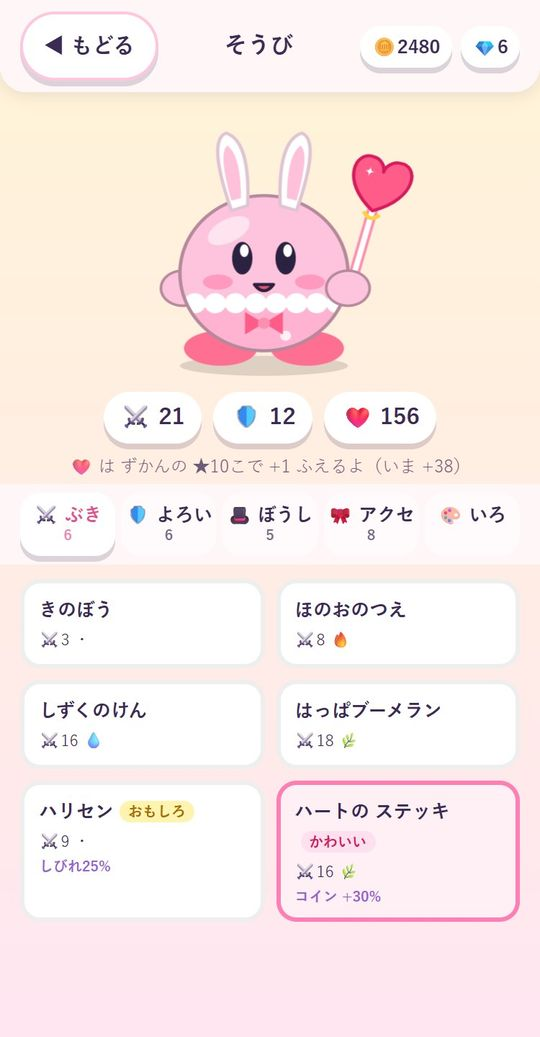
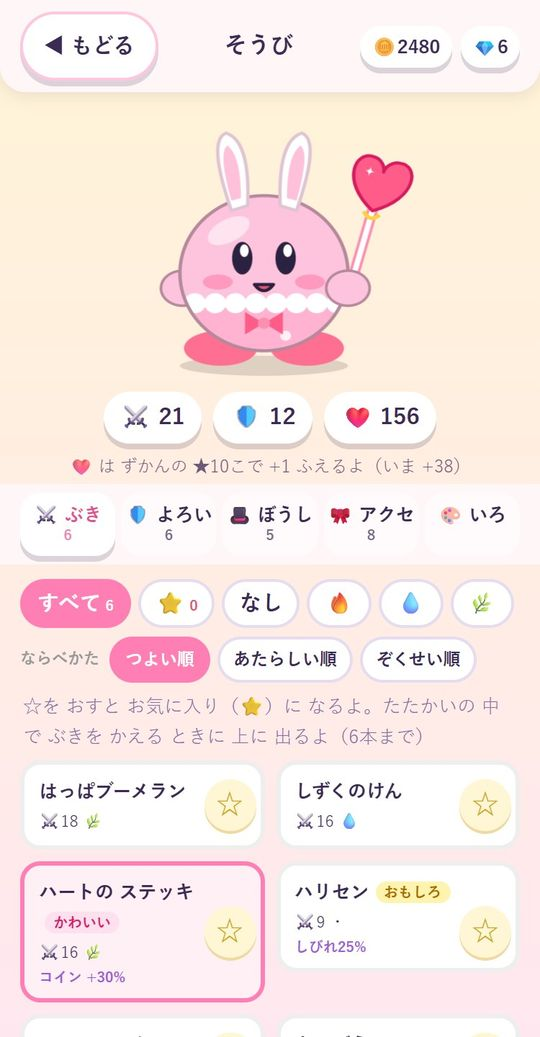
ぶきを選びやすく（v60）
たたかいの中のぶき交換:
- 「いちばん きく ぶきに する」ボタン（今の敵へのダメージの目安で判定）
- おすすめ3本・お気に入り（⭐）を上に、ほかは「ほかの ぶきを 見る」で開く
- ほかのぶきは ぞくせいで絞り込み（今の敵に効くぞくせいに◎）、きく順/つよい順/あたらしい順
- 各ぶきに「めやす ⚔」（ダメージの目安）を表示
そうび画面のぶき:
- ☆でお気に入り登録（6本まで）、ぞくせい・⭐で絞り込み、つよい順/あたらしい順/ぞくせい順
- 説明書を更新

Changed region(s): [[0.0296, 0.5554, 0.9778, 1.0]]

diff --git a/wpick.js b/wpick.js
@@ -1,0 +1,100 @@
+// ===== ぶきを えらびやすく する =====
+// たたかいの 中：「いちばん きく ぶきに する」ボタン・おすすめ 3本・お気に入り（⭐）・ほかの ぶき（しぼりこみ・ならべかえ）
+// そうび画面：⭐の 登録・ぞくせいで しぼりこみ・ならべかえ
+"use strict";
+
+const WFAV_MAX = 6; // お気に入りに できる 数
+const wFavs = () => (S.wfav = (S.wfav || []).filter((id) => S.owned.includes(id)));
+const isFav = (id) => wFavs().includes(id);
+const ownedWeapons = () => ITEMS.filter((x) => x.type === "weapon" && S.owned.includes(x.id));
+// 手に いれた じゅん（S.owned の ならび）
+const ownIdx = (id) => S.owned.indexOf(id);
+
+// いまの てきへの ダメージの めやす（こうげきの 計算と おなじ 考え方。かいしん・ついげき などは 平均で）
+function wScore(w) {
+  const sp = w.sp || {}, e = B.e, ch = B.st && B.st.ch;
+  let d = (5 + w.atk) * wEff(w) * (sp.hit || 1) * (1 + (sp.crit || 0));
+  if (sp.boss && e.boss) d *= sp.boss;
+  if (sp.world && ch && !ch.maou && (sp.world === "all" || sp.world === ch.w)) d *= 1.5;
+  if (sp.tok && e.el === sp.tok) d *= 1.5;
+  if (sp.maou && ch && ch.maou) d *= sp.maou;
+  d *= wBar(w);
+  if (sp.extra) d *= 1 + sp.extra * 0.5;
+  if (sp.multi) d *= 1 + sp.multi;
+  return Math.round(d);
+}
+
+// ---------- たたかいの 中 ----------
+let WP = { more: false, el: "all", sort: "eff" };
+function swapWeapon() {
+  if (B.busy) return;
+  snd("tap");
+  WP = { more: false, el: "all", sort: "eff" };
+  const e = B.e, ws = ownedWeapons().map((w) => ({ w, s: wScore(w) })).sort((a, b) => b.s - a.s || b.w.atk - a.w.atk);
+  const best = ws[0], cur = ws.find((x) => x.w.id === S.eq.weapon);
+  const top = ws.slice(0, 3), topIds = top.map((x) => x.w.id);
+  const favs = ws.filter((x) => isFav(x.w.id) && !topIds.includes(x.w.id));
+  const bestBtn = best && cur && best.s > cur.s
+    ? `<button class="big-btn primary wbest" onclick="setWeapon('${best.w.id}')">⚡ いちばん きく ぶきに する<small>${ELEMENTS[best.w.el].icon} ${esc(best.w.name)}（めやす ⚔${best.s}）</small></button>`
+    : `<p class="wbestok">👍 いまの ぶきが いちばん きくよ！</p>`;
+  modal(`<div class="mtitle">ぶきを かえる</div><p class="small">${esc(e.name)}の ぞくせい：<b>${ELEMENTS[e.el].icon} ${ELEMENTS[e.el].name}</b></p>
+    ${bestBtn}
+    <div class="wsub">🌟 おすすめ</div><div class="wlist">${top.map((x) => wItemHTML(x.w, x.s)).join("")}</div>
+    ${favs.length ? `<div class="wsub">⭐ お気に入り</div><div class="wlist">${favs.map((x) => wItemHTML(x.w, x.s)).join("")}</div>` : ""}
+    ${ws.length > 3 ? `<button class="wmore" id="wmore" onclick="wpMore()">ほかの ぶきを 見る ▼ <small>（ぜんぶで ${ws.length}本）</small></button><div id="wrest"></div>` : ""}
+    <button class="big-btn" onclick="closeModal()">とじる</button>`, "tmodal");
+}
+// ぶき 1本の ボタン（たたかいの 中）
+function wItemHTML(w, s) {
+  const x = wEff(w), bf = wBar(w), m = x * bf, ch = B.st && B.st.ch;
+  const here = w.sp && w.sp.world && ch && !ch.maou && (w.sp.world === "all" || w.sp.world === ch.w);
+  return `<button class="witem ${S.eq.weapon === w.id ? "sel" : ""} ${m >= 2 ? "good" : m < 1 ? "bad" : ""}" onclick="setWeapon('${w.id}')">
+    <span class="wel">${ELEMENTS[w.el].icon}</span><b>${isFav(w.id) ? "⭐" : ""}${esc(w.name)}</b><small>めやす ⚔${s}</small><span class="effs"><i class="eff">${EFFECT_MARK(x)} ${EFFECT_LABEL(x)}</i>${bf < 1 ? `<i class="eff bar">🛡 ${bf === 0.5 ? "はんぶん" : "3/4"}</i>` : ""}${here ? `<i class="eff tok">🗡この国で つよい</i>` : ""}</span></button>`;
+}
+// ほかの ぶき（ぞくせいで しぼる・ならべかえ）
+function wpMore(key, val) {
+  if (key) WP[key] = val; else WP.more = !WP.more;
+  snd("tap");
+  const box = $("wrest"), btn = $("wmore");
+  if (!box) return;
+  btn.innerHTML = `${WP.more ? "ほかの ぶきを とじる ▲" : "ほかの ぶきを 見る ▼"} <small>（ぜんぶで ${ownedWeapons().length}本）</small>`;
+  if (!WP.more) { box.innerHTML = ""; return; }
+  let ws = ownedWeapons().map((w) => ({ w, s: wScore(w) }));
+  const els = [...new Set(ws.map((x) => x.w.el))];
+  if (WP.el === "fav") ws = ws.filter((x) => isFav(x.w.id));
+  else if (WP.el !== "all") ws = ws.filter((x) => x.w.el === WP.el);
+  const sorts = { eff: (a, b) => b.s - a.s, atk: (a, b) => b.w.atk - a.w.atk, new: (a, b) => ownIdx(b.w.id) - ownIdx(a.w.id) };
+  ws.sort(sorts[WP.sort] || sorts.eff);
+  const good = (el) => effect(el, B.e.el, B.e.imm) >= 2;
+  box.innerHTML = `<div class="fcats wcats"><button class="${WP.el === "all" ? "on" : ""}" onclick="wpMore('el','all')">すべて</button>${wFavs().length ? `<button class="${WP.el === "fav" ? "on" : ""}" onclick="wpMore('el','fav')">⭐</button>` : ""}${els.map((el) => `<button class="${WP.el === el ? "on" : ""} ${good(el) ? "goodel" : ""}" onclick="wpMore('el','${el}')">${el === "none" ? "なし" : ELEMENTS[el].icon}${good(el) ? "◎" : ""}</button>`).join("")}</div>
+    <div class="fcats wsorts"><span>ならべかた</span>${[["eff", "きく順"], ["atk", "つよい順"], ["new", "あたらしい順"]].map(([k, l]) => `<button class="${WP.sort === k ? "on" : ""}" onclick="wpMore('sort','${k}')">${l}</button>`).join("")}</div>
+    <div class="wlist">${ws.length ? ws.map((x) => wItemHTML(x.w, x.s)).join("") : `<p class="small">この ぞくせいの ぶきは もっていないよ</p>`}</div>`;
+}
+
+// ---------- そうび画面の ぶき ----------
+let WE = { el: "all", sort: "atk" };
+function weaponEquipList() {
+  let its = ownedWeapons();
+  const els = [...new Set(its.map((w) => w.el))];
+  if (WE.el === "fav") its = its.filter((w) => isFav(w.id));
+  else if (WE.el !== "all") its = its.filter((w) => w.el === WE.el);
+  const order = ["fire", "water", "thunder", "leaf", "star", "none"];
+  const sorts = { atk: (a, b) => b.atk - a.atk, new: (a, b) => ownIdx(b.id) - ownIdx(a.id), el: (a, b) => order.indexOf(a.el) - order.indexOf(b.el) || b.atk - a.atk };
+  its.sort(sorts[WE.sort] || sorts.atk);
+  const nf = wFavs().length;
+  return `<div class="esec">
+    <div class="fcats wcats"><button class="${WE.el === "all" ? "on" : ""}" onclick="weSet('el','all')">すべて<i>${ownedWeapons().length}</i></button><button class="${WE.el === "fav" ? "on" : ""}" onclick="weSet('el','fav')">⭐<i>${nf}</i></button>${els.map((el) => `<button class="${WE.el === el ? "on" : ""}" onclick="weSet('el','${el}')">${el === "none" ? "なし" : ELEMENTS[el].icon}</button>`).join("")}</div>
+    <div class="fcats wsorts"><span>ならべかた</span>${[["atk", "つよい順"], ["new", "あたらしい順"], ["el", "ぞくせい順"]].map(([k, l]) => `<button class="${WE.sort === k ? "on" : ""}" onclick="weSet('sort','${k}')">${l}</button>`).join("")}</div>
+    <p class="small wfavnote">☆を おすと お気に入り（⭐）に なるよ。たたかいの 中で ぶきを かえる ときに 上に 出るよ（${WFAV_MAX}本まで）</p>
+    <div class="elist">${its.length ? its.map((it) => `<div class="ewrap"><button class="eitem ${S.eq.weapon === it.id ? "sel" : ""}" onclick="doEquip('weapon','${it.id}')">
+      <b>${it.series ? WORLDS.find((w) => w.id === it.series).icon : ""}${it.name}${funTag(it)}</b><small>⚔${it.atk} ${ELEMENTS[it.el].icon}</small>${it.sp ? `<span class="spt">${spText(it.sp)}</span>` : ""}</button>
+      <button class="wfav ${isFav(it.id) ? "on" : ""}" onclick="toggleFav('${it.id}')" aria-label="お気に入り">${isFav(it.id) ? "⭐" : "☆"}</button></div>`).join("") : `<p class="small">⭐の ぶきは まだ ないよ。☆を おして 登録しよう</p>`}</div></div>`;
+}
+function weSet(k, v) { const y = window.scrollY; WE[k] = v; snd("tap"); equip(); window.scrollTo(0, y); }
+function toggleFav(id) {
+  const y = window.scrollY, f = wFavs();
+  if (f.includes(id)) S.wfav = f.filter((x) => x !== id);
+  else if (f.length >= WFAV_MAX) { snd("ng"); toast(`お気に入りは ${WFAV_MAX}本まで だよ。ほかの ⭐を はずしてね`); return; }
+  else S.wfav = [...f, id];
+  save(); snd("tap"); equip(); window.scrollTo(0, y);
+}

diff --git a/manual/_src/puniquest-manual.html b/manual/_src/puniquest-manual.html
@@ -282,7 +282,7 @@ footer { margin-top: 48px; text-align: center; color: var(--ink-soft); font-size
           <li><span class="n">3</span><span>てきの <b>じゃくてん</b>。この ぞくせいの ぶきで こうげきすると 2ばいダメージ。<b>❓</b>の てきは 出てくるまで わからないよ。</span></li>
           <li><span class="n">4</span><span><b>あと3</b>：あと 3回 こたえると、てきが こうげきしてくるよ。</span></li>
           <li><span class="n">5</span><span>いっしょに たたかう <b>なかま</b>。ときどき わざで たすけてくれる。</span></li>
-          <li><span class="n">6</span><span><span class="tap">🔄 ぶき</span>：たたかいながら ぶきを かえられる。◎は「よく きく」、△は「いまひとつ」。</span></li>
+          <li><span class="n">6</span><span><span class="tap">🔄 ぶき</span>：たたかいながら ぶきを かえられる。いちばん 上の ボタンで、いま いちばん きく ぶきに すぐ かえられるよ。◎は「よく きく」、△は「いまひとつ」。</span></li>
           <li><span class="n">7</span><span><span class="tap">✨ ひっさつわざ</span>：せいかいで ゲージが たまると つかえる。せいかいで <b>3ばいダメージ</b>！</span></li>
           <li><span class="n y">8</span><span>もんだい。</span></li>
           <li><span class="n y">9</span><span>こたえを タップ！</span></li>
@@ -457,6 +457,24 @@ footer { margin-top: 48px; text-align: center; color: var(--ink-soft); font-size
           <b>かわいい</b>：ハートの ステッキ、フリルの ドレス、うさみみ<br>
           <b>キラキラ</b>：ながれぼしの つえ、きらきら ティアラ<br>
           <b>かっこいい</b>：タキシード、うちゅうふく、サングラス</div></div>
+      </div>
+    </div>
+
+    <div class="gallery">
+      <div class="g">
+        <div class="phone"><img src="img/16b_wswap.jpg" alt="たたかいの 中で ぶきを かえる 画面" width="750" height="1440" loading="lazy"></div>
+        <h4>たたかいの 中で ぶきを かえる</h4>
+        <p><span class="tap">🔄 ぶき</span> を おすと、いちばん 上に <span class="tap">⚡ いちばん きく ぶきに する</span> ボタンが 出るよ。その 下に、いまの てきに よく きく <b>おすすめ</b> 3本と、<b>⭐お気に入り</b>の ぶきが ならぶよ。「めやす ⚔」は ダメージの めやす。大きいほど つよいよ。</p>
+      </div>
+      <div class="g">
+        <div class="phone"><img src="img/16c_wmore.jpg" alt="ほかの ぶきを ぞくせいで しぼる" width="750" height="1440" loading="lazy"></div>
+        <h4>ほかの ぶきを さがす</h4>
+        <p><span class="tap">ほかの ぶきを 見る ▼</span> で ぜんぶの ぶきが 出るよ。🔥💧⚡🌿✨ の ボタンで ぞくせいを しぼれるよ（◎が ついているのが いまの てきに よく きく ぞくせい）。「きく順・つよい順・あたらしい順」で ならべかえも できるよ。</p>
+      </div>
+      <div class="g">
+        <div class="phone"><img src="img/16d_equipw.jpg" alt="そうび画面の お気に入り" width="750" height="1440" loading="lazy"></div>
+        <h4>⭐ お気に入り</h4>
+        <p><span class="tap">そうび</span> の <span class="tap">⚔ ぶき</span> で、ぶきの 右上の ☆を おすと お気に入りに なるよ（6本まで）。たたかいの 中で 上の ほうに 出るよ。そうび画面でも ぞくせいで しぼったり ならべかえたり できるよ。</p>
       </div>
     </div>
 

diff --git a/manual/kids.html b/manual/kids.html
@@ -304,7 +304,7 @@ section, header, nav.toc, .pc, .qa { scroll-margin-top: 84px; }
           <li><span class="n">3</span><span>てきの <b>じゃくてん</b>。この ぞくせいの ぶきで こうげきすると 2ばいダメージ。<b>❓</b>の てきは 出てくるまで わからないよ。</span></li>
           <li><span class="n">4</span><span><b>あと3</b>：あと 3回 こたえると、てきが こうげきしてくるよ。</span></li>
           <li><span class="n">5</span><span>いっしょに たたかう <b>なかま</b>。ときどき わざで たすけてくれる。</span></li>
-          <li><span class="n">6</span><span><span class="tap">🔄 ぶき</span>：たたかいながら ぶきを かえられる。◎は「よく きく」、△は「いまひとつ」。</span></li>
+          <li><span class="n">6</span><span><span class="tap">🔄 ぶき</span>：たたかいながら ぶきを かえられる。いちばん 上の ボタンで、いま いちばん きく ぶきに すぐ かえられるよ。◎は「よく きく」、△は「いまひとつ」。</span></li>
           <li><span class="n">7</span><span><span class="tap">✨ ひっさつわざ</span>：せいかいで ゲージが たまると つかえる。せいかいで <b>3ばいダメージ</b>！</span></li>
           <li><span class="n y">8</span><span>もんだい。</span></li>
           <li><span class="n y">9</span><span>こたえを タップ！</span></li>
@@ -479,6 +479,24 @@ section, header, nav.toc, .pc, .qa { scroll-margin-top: 84px; }
           <b>かわいい</b>：ハートの ステッキ、フリルの ドレス、うさみみ<br>
           <b>キラキラ</b>：ながれぼしの つえ、きらきら ティアラ<br>
           <b>かっこいい</b>：タキシード、うちゅうふく、サングラス</div></div>
+      </div>
+    </div>
+
+    <div class="gallery">
+      <div class="g">
+        <div class="phone"><img src="img/16b_wswap.jpg" alt="たたかいの 中で ぶきを かえる 画面" width="750" height="1440" loading="lazy"></div>
+        <h4>たたかいの 中で ぶきを かえる</h4>
+        <p><span class="tap">🔄 ぶき</span> を おすと、いちばん 上に <span class="tap">⚡ いちばん きく ぶきに する</span> ボタンが 出るよ。その 下に、いまの てきに よく きく <b>おすすめ</b> 3本と、<b>⭐お気に入り</b>の ぶきが ならぶよ。「めやす ⚔」は ダメージの めやす。大きいほど つよいよ。</p>
+      </div>
+      <div class="g">
+        <div class="phone"><img src="img/16c_wmore.jpg" alt="ほかの ぶきを ぞくせいで しぼる" width="750" height="1440" loading="lazy"></div>
+        <h4>ほかの ぶきを さがす</h4>
+        <p><span class="tap">ほかの ぶきを 見る ▼</span> で ぜんぶの ぶきが 出るよ。🔥💧⚡🌿✨ の ボタンで ぞくせいを しぼれるよ（◎が ついているのが いまの てきに よく きく ぞくせい）。「きく順・つよい順・あたらしい順」で ならべかえも できるよ。</p>
+      </div>
+      <div class="g">
+        <div class="phone"><img src="img/16d_equipw.jpg" alt="そうび画面の お気に入り" width="750" height="1440" loading="lazy"></div>
+        <h4>⭐ お気に入り</h4>
+        <p><span class="tap">そうび</span> の <span class="tap">⚔ ぶき</span> で、ぶきの 右上の ☆を おすと お気に入りに なるよ（6本まで）。たたかいの 中で 上の ほうに 出るよ。そうび画面でも ぞくせいで しぼったり ならべかえたり できるよ。</p>
       </div>
     </div>
 

diff --git a/app.js b/app.js
@@ -1277,17 +1277,7 @@ function openBox() {
 }
 
 // バトル中にぶきを付けかえる
-function swapWeapon() {
-  if (B.busy) return;
-  snd("tap");
-  const e = B.e, ch = B.st && B.st.ch, here = (w) => w.sp && w.sp.world && ch && !ch.maou && (w.sp.world === "all" || w.sp.world === ch.w);
-  // この国の ひけんを いちばん上に
-  const ws = ITEMS.filter((x) => x.type === "weapon" && S.owned.includes(x.id)).sort((a, b) => (here(b) ? 1 : 0) - (here(a) ? 1 : 0));
-  modal(`<div class="mtitle">ぶきを かえる</div><p class="small">${esc(e.name)}の ぞくせい：<b>${ELEMENTS[e.el].icon} ${ELEMENTS[e.el].name}</b></p>
-    <div class="wlist">${ws.map((w) => { const x = wEff(w), bf = wBar(w), m = x * bf; return `<button class="witem ${S.eq.weapon === w.id ? "sel" : ""} ${m >= 2 ? "good" : m < 1 ? "bad" : ""}" onclick="setWeapon('${w.id}')">
-      <span class="wel">${ELEMENTS[w.el].icon}</span><b>${w.name}</b><small>⚔${w.atk}</small><span class="effs"><i class="eff">${EFFECT_MARK(x)} ${EFFECT_LABEL(x)}</i>${bf < 1 ? `<i class="eff bar">🛡 ${bf === 0.5 ? "はんぶん" : "3/4"}</i>` : ""}${here(w) ? `<i class="eff hk">🗡 この国で つよい</i>` : ""}</span>${w.sp ? `<small class="spt">${spText(w.sp)}</small>` : ""}</button>`; }).join("")}</div>
-    <button class="big-btn" onclick="closeModal()">とじる</button>`);
-}
+// ぶきを かえる ポップアップは wpick.js（おすすめ・お気に入り・しぼりこみ）
 function setWeapon(id) {
   S.eq.weapon = id; save(); closeModal(); snd("ok");
   $("pchr").innerHTML = charSVG(S.eq, S.color);
@@ -1486,7 +1476,7 @@ function equip() {
   const cnt = (t) => (t === "color" ? "" : `<small>${ITEMS.filter((x) => x.type === t && S.owned.includes(x.id)).length}</small>`);
   const body = eqTab === "color"
     ? `<div class="esec"><div class="colors">${BODY_COLORS.map((c) => `<button class="cdot ${S.color === c ? "sel" : ""}" style="background:${c}" onclick="setColor('${c}')"></button>`).join("")}</div></div>`
-    : (eqTab === "weapon" ? hikenPanel() : "") + sec(eqTab);
+    : eqTab === "weapon" ? hikenPanel() + weaponEquipList() : sec(eqTab);
   setScreen(`${topBar("そうび")}
     <div class="eqtop"><div class="hero">${charSVG(S.eq, S.color, "bounce")}</div>
     <div class="stats"><span>⚔ ${pAtk()}</span><span>🛡 ${pDef()}</span><span>❤ ${pMaxHp()}</span></div>

diff --git a/style.css b/style.css
@@ -995,3 +995,23 @@ button.okbar { display: block; width: calc(100% - 32px); border: 0; cursor: poin
 .zc .zkind.up { background: #ffb800; }
 .zc .zw { position: absolute; bottom: 1px; right: 3px; font-style: normal; font-size: 10px; }
 .znewgrid .zc { aspect-ratio: auto; min-height: 96px; display: flex; flex-direction: column; align-items: center; justify-content: center; gap: 2px; }
+/* ぶきを えらびやすく（たたかいの 中） */
+.wbest { display: grid; gap: 2px; margin: 6px 0 4px; }
+.wbest small { font-size: 12px; font-weight: 700; opacity: .95; }
+.wbestok { text-align: center; font-weight: 900; font-size: 13px; background: #eaffee; border-radius: 12px; padding: 6px; margin: 6px 0 4px; color: #2e8b47; }
+.wsub { font-weight: 900; font-size: 13px; text-align: left; margin: 10px 2px 4px; color: #8a6fa8; }
+.wmore { width: 100%; border: 2px dashed #d9c8ee; background: #faf6ff; border-radius: 14px; padding: 9px; font-weight: 900; font-size: 14px; margin: 10px 0 4px; color: #6b4f8a; }
+.wmore small { font-weight: 700; color: #999; }
+.wcats, .wsorts { justify-content: flex-start; margin: 6px 0; }
+.wsorts span { font-size: 11px; font-weight: 900; color: #999; align-self: center; margin-right: 2px; }
+.wcats button { font-size: 15px; padding: 3px 10px; }
+.wcats button.goodel { border-color: #3cc45a; }
+.wcats button.goodel.on { background: #3cc45a; border-color: #3cc45a; }
+/* そうび画面：お気に入りの ☆ */
+.ewrap { position: relative; }
+.ewrap .eitem { width: 100%; padding-right: 44px; }
+.wfav { position: absolute; top: 50%; right: 6px; translate: 0 -50%; width: 36px; height: 36px; border: 0; border-radius: 50%; background: #fff6d5; font-size: 18px; color: #c9a227; box-shadow: 0 2px 0 #f0d9a0; }
+.wfav.on { background: #ffe680; }
+.wfavnote { margin: 2px 2px 6px; color: #8a6fa8; }
+.ewrap .eitem { padding-right: 36px; height: 100%; }
+.wfav { top: 6px; right: 6px; translate: none; width: 30px; height: 30px; font-size: 15px; }

diff --git a/manual/_src/shoot.js b/manual/_src/shoot.js
@@ -52,6 +52,9 @@ const SHOTS = [
   ["14_clear", `RESTORE(); startBattle("k1b-2"); B.miss=0; B.coins=46; B.mats={kinoko:2,moji:1}; B.news=CHAPTERS.find(c=>c.id==="k1b").items.slice(0,3); B.ups=[CHAPTERS.find(c=>c.id==="k1b").items[4]]; B.eggs=[0]; B.ei=B.enemies.length; B.e.hp=0; stageClear()`, 900],
   ["15_shop", `RESTORE(); S.tierClear={1:true,2:true}; shop("hat")`],
   ["16_equip", `RESTORE(); equip()`],
+  ["16b_wswap", `RESTORE(); ITEMS.filter(x=>x.type==="weapon"&&!x.drop&&x.price>0).slice(0,30).forEach(x=>{ if(!S.owned.includes(x.id)) S.owned.push(x.id); }); S.wfav=["w_harisen","w_fire1"]; startBattle("s1-1"); setTimeout(()=>{ closeModal(); swapWeapon(); }, 400)`, 1300],
+  ["16c_wmore", `RESTORE(); ITEMS.filter(x=>x.type==="weapon"&&!x.drop&&x.price>0).slice(0,30).forEach(x=>{ if(!S.owned.includes(x.id)) S.owned.push(x.id); }); S.wfav=["w_harisen","w_fire1"]; startBattle("s1-1"); setTimeout(()=>{ closeModal(); swapWeapon(); wpMore(); wpMore("el","thunder"); setTimeout(()=>document.getElementById("wmore").scrollIntoView({block:"start"}),100); }, 400)`, 1400],
+  ["16d_equipw", `RESTORE(); ITEMS.filter(x=>x.type==="weapon"&&!x.drop&&x.price>0).slice(0,30).forEach(x=>{ if(!S.owned.includes(x.id)) S.owned.push(x.id); }); S.wfav=["w_harisen","w_fire1"]; eqTab="weapon"; equip(); setTimeout(()=>document.querySelector(".wcats").scrollIntoView({block:"start"}),150)`, 1000],
   ["17_nakama", `RESTORE(); nakama("pets")`],
   ["18_egg", `RESTORE(); S.eggs[0].p=20; nakama("egg")`],
   ["19_breed", `RESTORE(); S.pets[0].lv=6; S.pets[3].lv=7; nakama("breed")`],

diff --git a/sw.js b/sw.js
@@ -1,7 +1,7 @@
 // オフラインでも遊べるように、アプリのファイルを保存しておく
 // ※アプリを更新したら VERSION の数字を上げる
-const VERSION = "puni-v59";
-const FILES = ["./", "index.html", "style.css", "data.js", "world.js", "c_kanji.js", "c_kotoba.js", "c_math.js", "c_sci.js", "c_soc.js", "cloud.js", "pets.js", "music.js", "gear.js", "extra.js", "treasure.js", "hiken.js", "okaeri.js", "otsukai.js", "room.js", "furnart.js", "roomview.js", "talk.js", "yomi.js", "app.js", "manifest.webmanifest", "icons/icon-192.png", "icons/apple-touch-icon.png"];
+const VERSION = "puni-v60";
+const FILES = ["./", "index.html", "style.css", "data.js", "world.js", "c_kanji.js", "c_kotoba.js", "c_math.js", "c_sci.js", "c_soc.js", "cloud.js", "pets.js", "music.js", "gear.js", "extra.js", "treasure.js", "hiken.js", "okaeri.js", "otsukai.js", "room.js", "furnart.js", "roomview.js", "talk.js", "yomi.js", "wpick.js", "app.js", "manifest.webmanifest", "icons/icon-192.png", "icons/apple-touch-icon.png"];
 
 self.addEventListener("install", (e) => {
   e.waitUntil(caches.open(VERSION).then((c) => c.addAll(FILES)).then(() => self.skipWaiting()));

diff --git a/index.html b/index.html
@@ -25,7 +25,7 @@
     // いちばん新しい版の番号を たしかめてから、その版の ファイルを 読みこむ
     // （古いファイルが のこらないように、ファイル名に ?v=版 を つける）
     (function () {
-      var FILES = ["data.js", "world.js", "c_kanji.js", "c_kotoba.js", "c_math.js", "c_sci.js", "c_soc.js", "cloud.js", "pets.js", "music.js", "gear.js", "extra.js", "treasure.js", "hiken.js", "okaeri.js", "otsukai.js", "room.js", "furnart.js", "roomview.js", "talk.js", "yomi.js", "app.js"];
+      var FILES = ["data.js", "world.js", "c_kanji.js", "c_kotoba.js", "c_math.js", "c_sci.js", "c_soc.js", "cloud.js", "pets.js", "music.js", "gear.js", "extra.js", "treasure.js", "hiken.js", "okaeri.js", "otsukai.js", "room.js", "furnart.js", "roomview.js", "talk.js", "yomi.js", "wpick.js", "app.js"];
       function boot(v) {
         window.APP_V = v || 0;
         var q = v ? "?v=" + v : "";

diff --git a/okaeri.js b/okaeri.js
@@ -34,6 +34,7 @@ const NEWS = [
   { v: 54, t: "👆 ひみつきちの かぐを ドラッグで うごかせるように なった" },
   { v: 55, t: "📁 ひみつきちの へやを きろく・よみこみ できるように なった" },
   { v: 57, t: "🆕 ずかんに あたらしい カードを 見られる タブが できた" },
+  { v: 60, t: "⚔ たたかいの 中で ぶきを えらびやすく なった（おすすめ・お気に入り）" },
 ];
 
 const daysBetween = (a, b) => Math.round((new Date(b + "T00:00:00") - new Date(a + "T00:00:00")) / 86400000);
